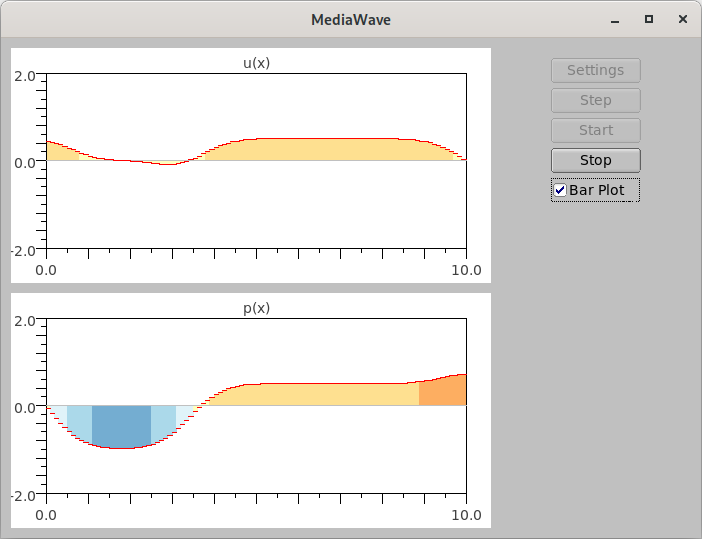
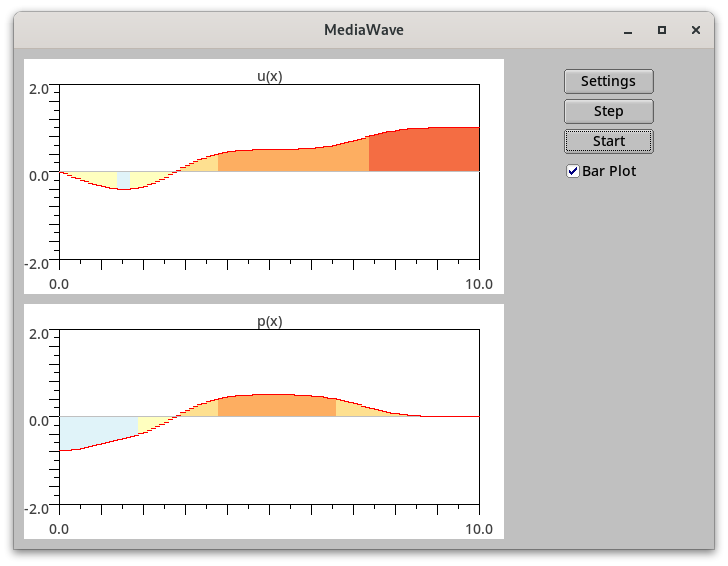
[MediaWave] Fix color palette for extreme values
* Fix color of gradient for minimal values
* Select different initial condition on start
* Fix dark color for tip types
* Merge start-stop button in the UI
* Update program screenshot

Changed region(s): [[0.0, 0.0, 1.0, 1.0], [0.7778, 0.1187, 0.9274, 0.3859], [0.6282, 0.1484, 0.6581, 0.1781]]

diff --git a/src/MediaWave/MainWindow.cpp b/src/MediaWave/MainWindow.cpp
@@ -18,10 +18,9 @@ MainWindow::MainWindow(MediumModel* model)
 
     settings_btn = new Fl_Button(550, 20, 90, 25, "Settings");
     step_btn = new Fl_Button(550, 50, 90, 25, "Step");
-    start_btn = new Fl_Button(550, 80, 90, 25, "Start");
-    stop_btn = new Fl_Button(550, 110, 90, 25, "Stop");
+    start_stop_btn = new Fl_Button(550, 80, 90, 25, "Start");
 
-    bar_plot_check = new Fl_Check_Button(550, 140, 90, 25, "Bar Plot");
+    bar_plot_check = new Fl_Check_Button(550, 110, 90, 25, "Bar Plot");
     bar_plot_check->callback(switch_bar_plot_cb, this);
 
     bar_plot_check->value(bar_plot_);
@@ -32,11 +31,10 @@ MainWindow::MainWindow(MediumModel* model)
     this->end();
 
     step_btn->callback(step_cb_st, this);
-    start_btn->callback(start_cb_st, this);
-    stop_btn->callback(stop_cb_st, this);
+    start_stop_btn->callback(start_stop_cb_st, this);
     settings_btn->callback(settings_cb_st, this);
 
-    stop_btn->deactivate();
+    Fl::focus(start_stop_btn);
 
     uw->view_range(0.0, DefL, -2.0, 2.0);
     uw->ticks(PlotDefaults::TickCount, PlotDefaults::TickSize);
@@ -135,32 +133,32 @@ void MainWindow::step_cb() {
     this->redraw();
 }
 
-void MainWindow::start_cb_st(Fl_Widget*, void* v) {
+void MainWindow::start_stop_cb_st(Fl_Widget*, void* v) {
     auto w = static_cast<MainWindow*>(v);
-    w->start_cb();
+    w->start_stop_cb();
 }
 
-void MainWindow::start_cb() {
-    this->settings_btn->deactivate();
-    this->step_btn->deactivate();
-    this->start_btn->deactivate();
-    this->stop_btn->activate();
+void MainWindow::start_stop_cb() {
+    if (running_) {
+        running_ = false;
 
-    Fl::add_timeout(TimerInterval, timer_cb_st, this);
-}
+        this->settings_btn->activate();
+        this->step_btn->activate();
 
-void MainWindow::stop_cb_st(Fl_Widget*, void* v) {
-    auto w = static_cast<MainWindow*>(v);
-    w->stop_cb();
-}
+        this->start_stop_btn->label("Start");
 
-void MainWindow::stop_cb() {
-    this->settings_btn->activate();
-    this->step_btn->activate();
-    this->start_btn->activate();
-    this->stop_btn->deactivate();
+        Fl::remove_timeout(timer_cb_st, this);
+    }
+    else {
+        running_ = true;
 
-    Fl::remove_timeout(timer_cb_st, this);
+        this->settings_btn->deactivate();
+        this->step_btn->deactivate();
+
+        this->start_stop_btn->label("Stop");
+
+        Fl::add_timeout(TimerInterval, timer_cb_st, this);
+    }
 }
 
 void MainWindow::settings_cb_st(Fl_Widget*, void* v) {
@@ -263,6 +261,7 @@ void MainWindow::create_settings_wnd() {
     left_side_choice->add(label_close_left)->user_data((void*)(SideType::Closed));
     left_side_choice->add(label_open)->user_data((void*)(SideType::Open));
     left_side_choice->add(label_manual)->user_data((void*)(SideType::Manual));
+    left_side_choice->selection_color(FL_DARK2);
     set_tree_icons(left_side_choice);
     left_side_choice->callback(left_side_cb_st, this);
     bl_in = new Fl_Input(70, 330, 90, 25, "bl");
@@ -274,6 +273,7 @@ void MainWindow::create_settings_wnd() {
     right_side_choice->add(label_close_right)->user_data((void*)(SideType::Closed));
     right_side_choice->add(label_open)->user_data((void*)(SideType::Open));
     right_side_choice->add(label_manual)->user_data((void*)(SideType::Manual));
+    right_side_choice->selection_color(FL_DARK2);
     set_tree_icons(right_side_choice);
     right_side_choice->callback(right_side_cb_st, this);
     br_in = new Fl_Input(190, 330, 90, 25, "br");

diff --git a/src/MediaWave/PlotWidget.cpp b/src/MediaWave/PlotWidget.cpp
@@ -288,7 +288,7 @@ void PlotWidget::draw_heatmap() {
         for (int i = 0; i < point_count_; i++) {
             double y = points[i * 2].y;
             double t = 1. - (y - ymin_) / (ymax_ - ymin_);
-            size_t k = static_cast<size_t>((static_cast<double>(Palette.size()) * t)) % Palette.size();
+            size_t k = static_cast<size_t>((static_cast<double>(Palette.size() - 1) * t));
 
             glColor4ubv(Palette[k].data());
 
@@ -302,7 +302,7 @@ void PlotWidget::draw_heatmap() {
             for (int i = 0; i < point_count_; i++) {
                 double y = points[i * 2].y;
                 double t = 1. - (y - ymin_) / (ymax_ - ymin_);
-                size_t k = static_cast<size_t>((static_cast<double>(Palette.size()) * t)) % Palette.size();
+                size_t k = static_cast<size_t>((static_cast<double>(Palette.size() - 1) * t));
 
                 fl_color(fl_rgb_color(Palette[k][0], Palette[k][1], Palette[k][2]));
 

diff --git a/src/MediaWave/MainWindow.h b/src/MediaWave/MainWindow.h
@@ -45,11 +45,8 @@ private:
     static void step_cb_st(Fl_Widget*, void*);
     void step_cb();
 
-    static void start_cb_st(Fl_Widget*, void*);
-    void start_cb();
-
-    static void stop_cb_st(Fl_Widget*, void*);
-    void stop_cb();
+    static void start_stop_cb_st(Fl_Widget*, void*);
+    void start_stop_cb();
 
     static void settings_cb_st(Fl_Widget*, void*);
     void settings_cb();
@@ -88,14 +85,14 @@ private:
 
 private:
     bool bar_plot_{ true };
+    bool running_{ false };
 
     MediumModel *model_{ nullptr };
 
     PlotWidget* uw{ nullptr };
     PlotWidget* pw{ nullptr };
     Fl_Button* step_btn{ nullptr };
-    Fl_Button* start_btn{ nullptr };
-    Fl_Button* stop_btn{ nullptr };
+    Fl_Button* start_stop_btn{ nullptr };
     Fl_Button* settings_btn{ nullptr };
 
     // Settings window properties

diff --git a/src/MediaWave/MediumModel.h b/src/MediaWave/MediumModel.h
@@ -15,7 +15,7 @@ const BoundaryCondition ClosedBoundary = {0.0f, 1.0f};
 const BoundaryCondition OpenBoundary = {1.0f, 0.0f};
 
 constexpr int DefUNType = 0;
-constexpr int DefPNType = 0;
+constexpr int DefPNType = 2;
 
 // u(x) initial conditions
 constexpr float UN_0 = 0.0;
